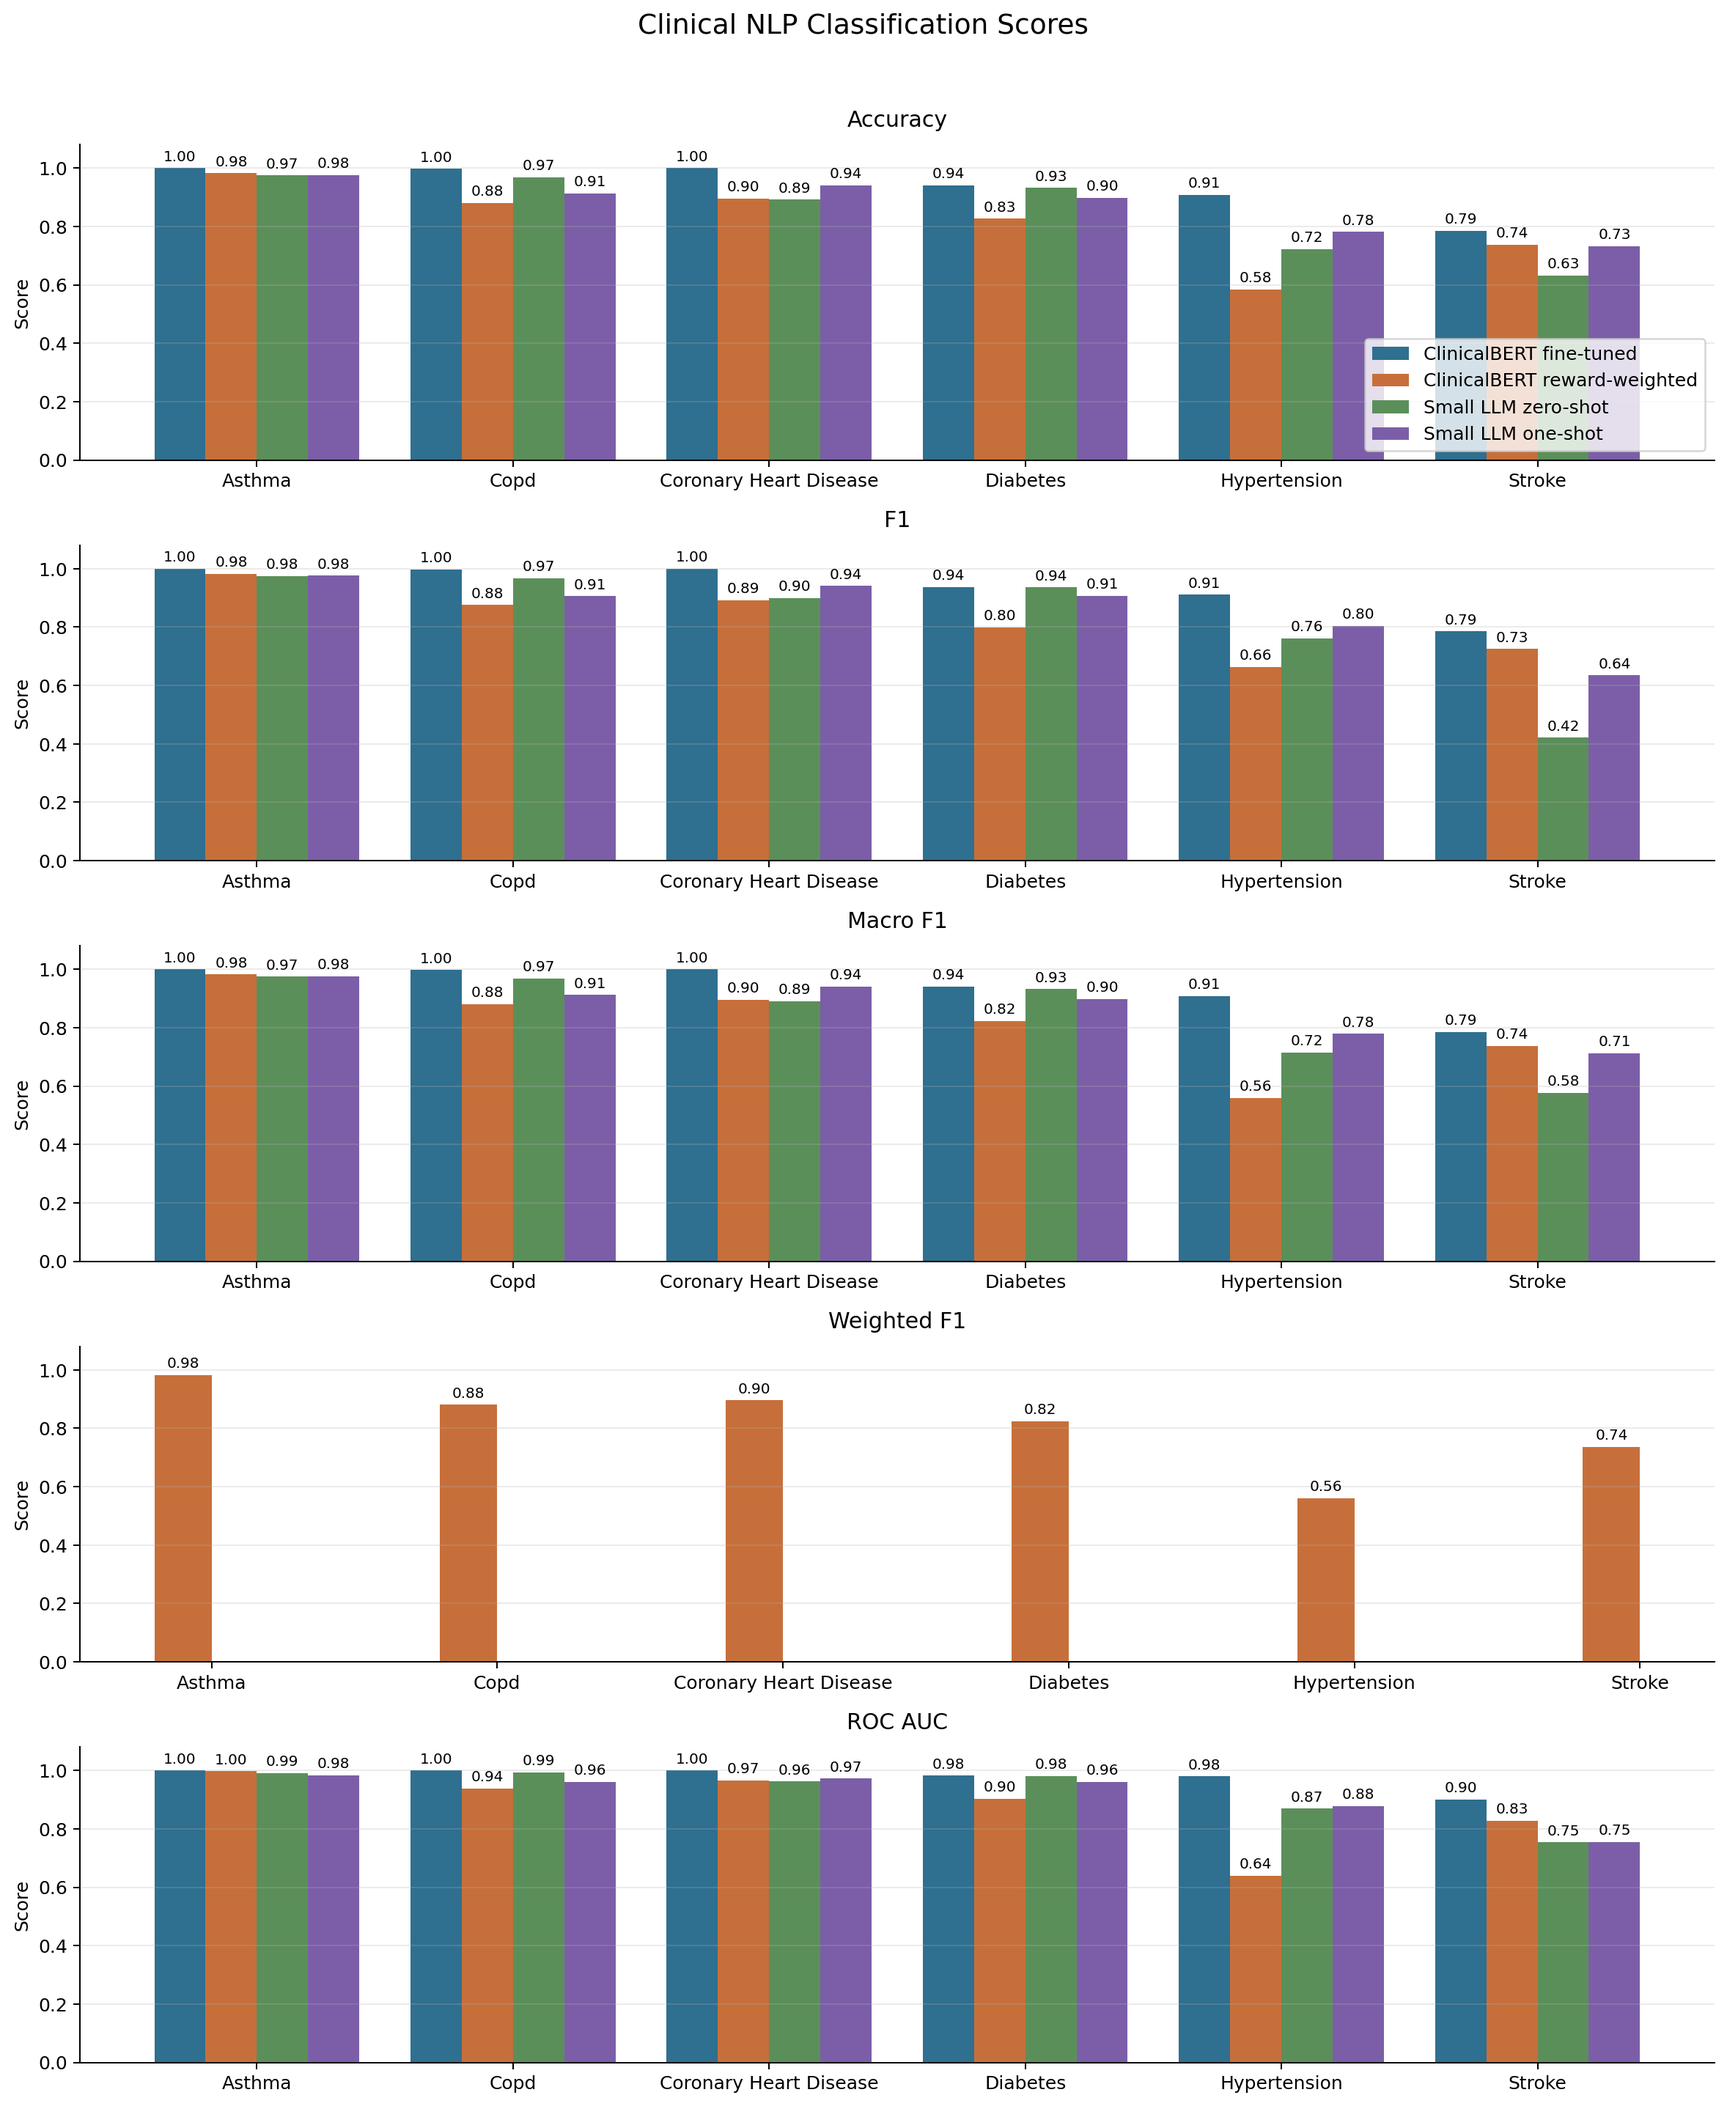
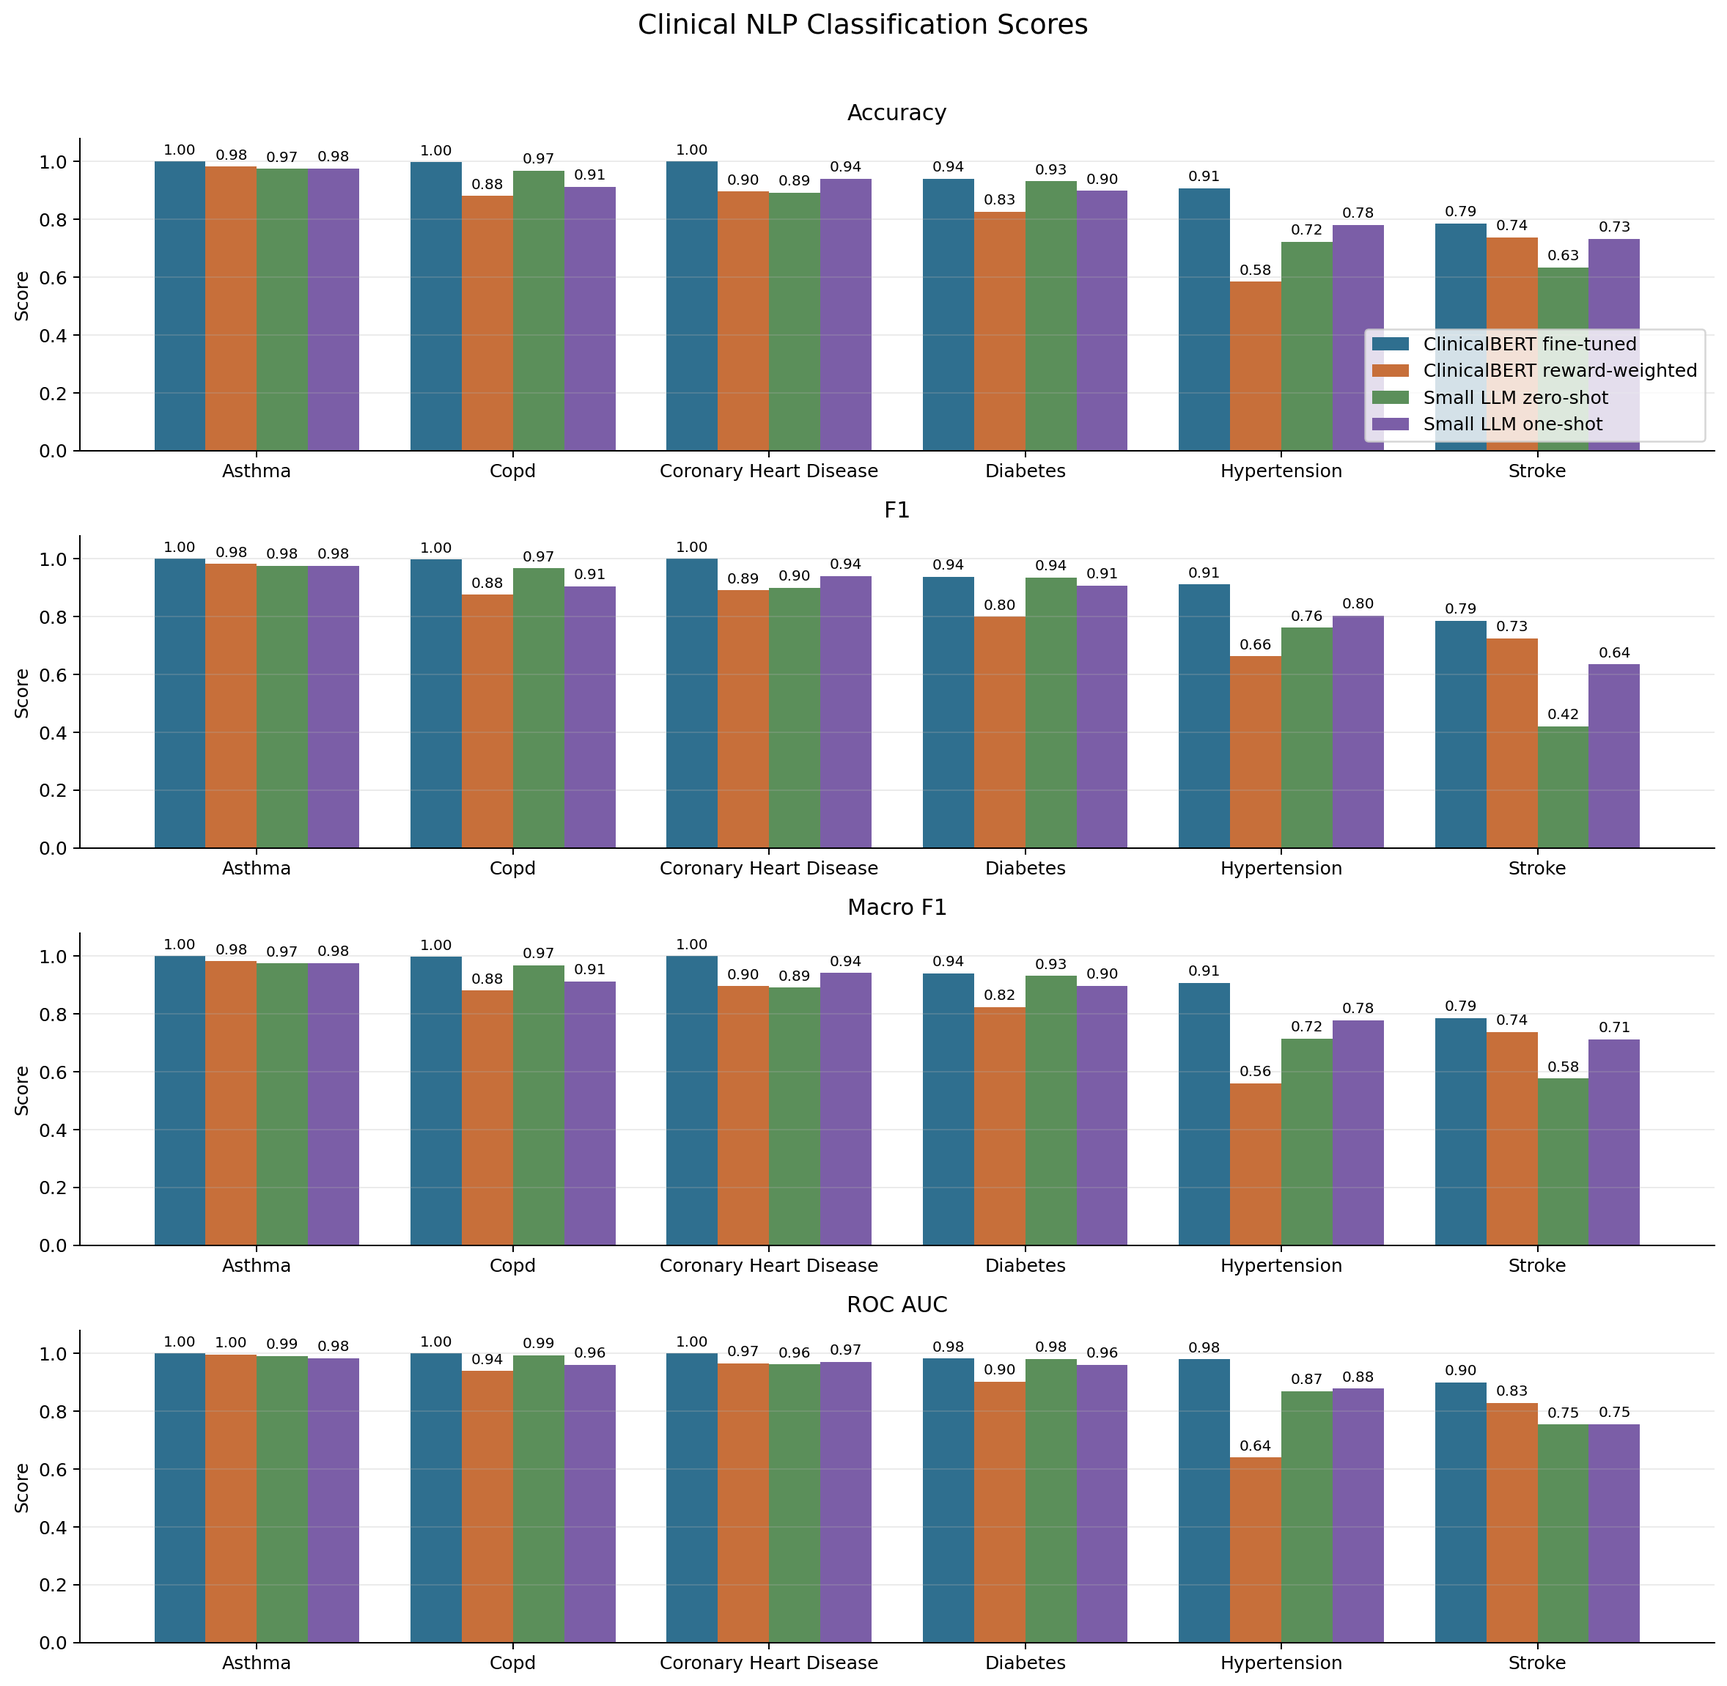
feat: removed weighted score graph

diff --git a/clinical_bert_test.py b/clinical_bert_test.py
@@ -1398,7 +1398,13 @@ def run_plot(args: argparse.Namespace) -> Path:
     os.environ.setdefault("MPLCONFIGDIR", "/tmp/matplotlib")
 
     run_names = args.runs or ["baseline", "clinicalbert", "clinicalbert_inference"]
-    records = load_score_records(output_dir, run_names, args.metrics)
+    plot_metrics = [metric for metric in args.metrics if metric != "weighted_f1"]
+    if len(plot_metrics) != len(args.metrics):
+        info("Skipping weighted_f1 in plots; it remains available in metrics JSON.")
+    if not plot_metrics:
+        raise ValueError("No plottable metrics requested.")
+
+    records = load_score_records(output_dir, run_names, plot_metrics)
     summary_csv = plot_dir / "score_summary.csv"
     write_score_csv(summary_csv, records)
 
@@ -1424,15 +1430,14 @@ def run_plot(args: argparse.Namespace) -> Path:
         "specificity": "Specificity",
         "f1": "F1",
         "macro_f1": "Macro F1",
-        "weighted_f1": "Weighted F1",
         "roc_auc": "ROC AUC",
     }
     colors = ["#2f6f8f", "#c76f3a", "#5b8f5a", "#7b5ea7", "#b84a62"]
 
     fig_width = max(9.0, 2.2 * len(tasks))
-    fig_height = 3.2 * len(args.metrics)
+    fig_height = 3.2 * len(plot_metrics)
     fig, axes = plt.subplots(
-        len(args.metrics),
+        len(plot_metrics),
         1,
         figsize=(fig_width, fig_height),
         squeeze=False,
@@ -1442,7 +1447,7 @@ def run_plot(args: argparse.Namespace) -> Path:
     bar_width = min(0.8 / max(len(models), 1), 0.28)
     offsets = (np.arange(len(models)) - (len(models) - 1) / 2) * bar_width
 
-    for metric_index, metric_name in enumerate(args.metrics):
+    for metric_index, metric_name in enumerate(plot_metrics):
         ax = axes[metric_index][0]
         for model_index, model_name in enumerate(models):
             scores = [

diff --git a/README.md b/README.md
@@ -229,7 +229,7 @@ Include it in the final comparison plot/table:
 python clinical_bert_test.py plot \
   --output-dir benchmark_runs/all_tasks \
   --runs clinicalbert clinicalbert_reward small_llm \
-  --metrics accuracy f1 macro_f1 weighted_f1 roc_auc
+  --metrics accuracy f1 macro_f1 roc_auc
 ```
 
 ## Default Tasks
